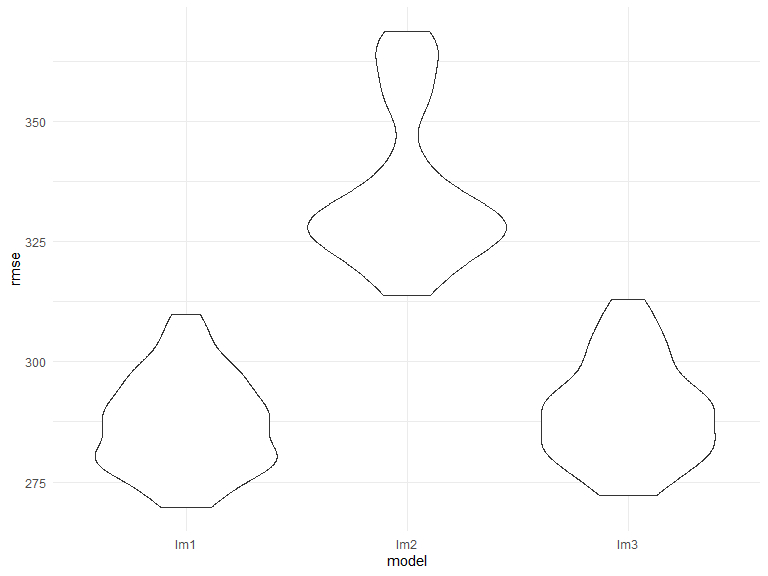
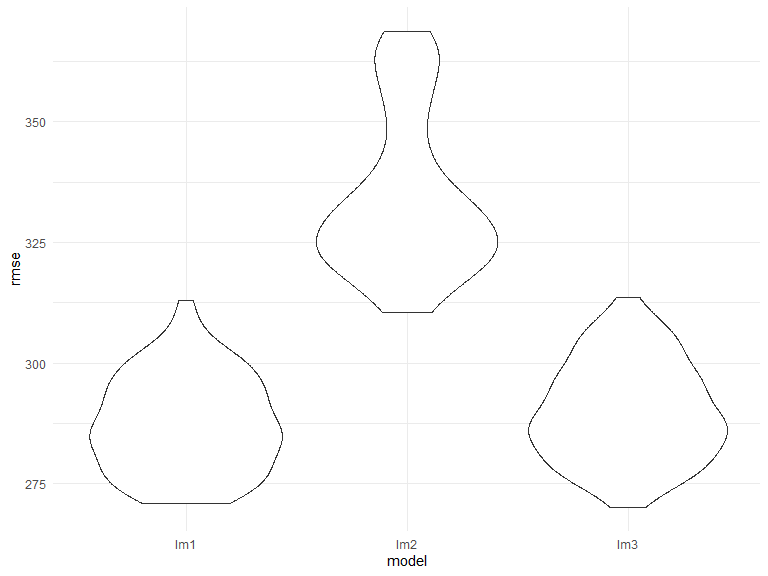
fixed problem 3

diff --git a/HW6.md b/HW6.md
@@ -260,6 +260,9 @@ birthweight %>%
 
 <img src="HW6_files/figure-gfm/unnamed-chunk-8-3.png" width="90%" />
 
+The first hypothesized model lm1 is :
+$bwt = \beta_0+\beta_1bhead+\beta_2blength+\beta_3wtgain$
+
 ``` r
 lm1 = birthweight %>%
   lm(bwt ~ bhead + blength + wtgain, data = .) 
@@ -270,6 +273,12 @@ birthweight %>%
 ```
 
 <img src="HW6_files/figure-gfm/unnamed-chunk-9-1.png" width="90%" />
+
+Next, two additional models were generated and compared to our
+hypothesized model. Model 2 involved length at birth and gestational age
+as predictors, and model 3 used head circumference, length, sex, and all
+interactions (including the three-way interaction) between these as the
+predictors.
 
 ``` r
 cv_df =
@@ -303,6 +312,6 @@ cv_df %>%
 
 <img src="HW6_files/figure-gfm/unnamed-chunk-11-1.png" width="90%" />
 
-As shown above, the first and third model may be a better models because
+As shown above, the first and third model may be better models because
 they have lower RMSE values. Model 1 is preferred because it’s more
 simple than model 3 and it has a slightly lower RMSE value.
